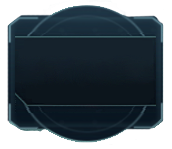
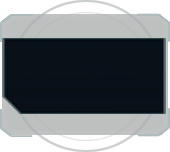
style

diff --git a/Data/style.css b/Data/style.css
@@ -449,7 +449,9 @@ p {
     min-width: 800px;
     float: left;
     background-color: rgb(0, 5, 10, 0.5);
-
+    background-image: url(/aowp/UI/modbackgroundPlain.png);
+    background-size: contain;
+    background-repeat: no-repeat;
     display: table;
     padding: 10px;
     margin: 5px;
@@ -559,7 +561,7 @@ tab {
 }
 
 .mod_card {
-    background-color: rgb(25, 49, 61, 0.5);
+
     color: white;
     width: 840px;
 
